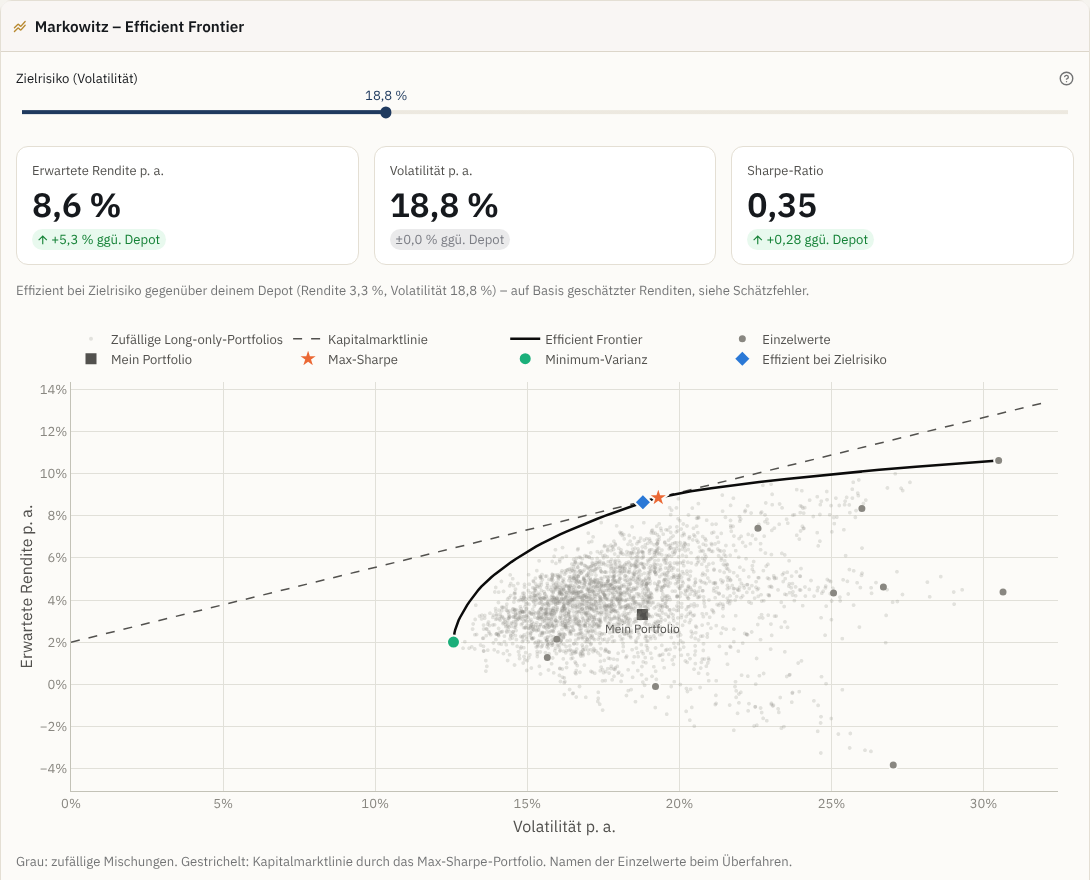
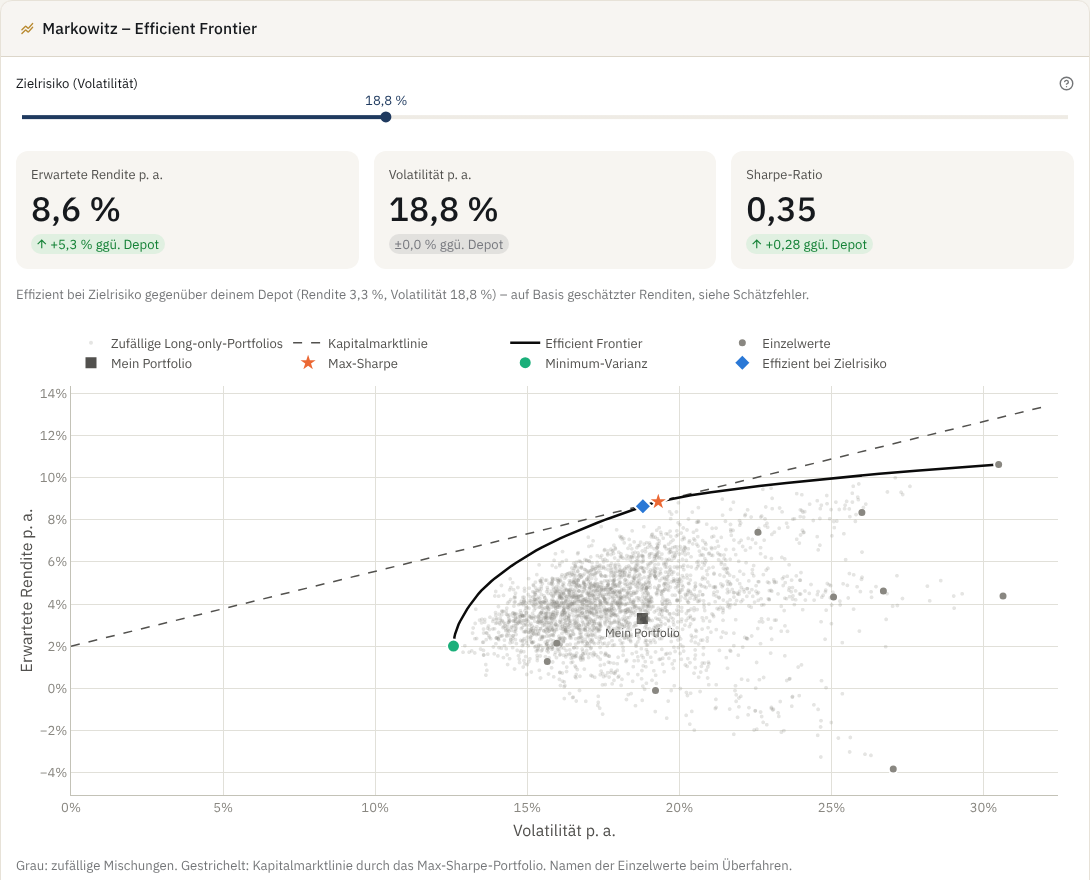
Design nach Referenz Mercury, Prüfung nach Web Interface Guidelines
Nach dem Ablauf aus CLAUDE.md:
- Referenz (awesome-design): Mercury – Prinzipien übernommen, eigene Werte
  behalten (warmes Papier statt kühlem Weiß, Navy statt Indigo): weiße
  Karten auf Papier ohne Schatten, Kennzahl-Kacheln einen Ton zurück, eine
  einzige Aktionsfarbe, übrige Knöpfe als ruhige Pillen, leichtere Schnitte
  (500) für Depotwert, Kennzahlen und Abschnittstitel, Radien 12/8 px.
- Prüfung (web-design-guidelines): Platzhalter und Ladehinweise mit „…“,
  Pfeile in der Depotwert-Zeile für Screenreader ausgeblendet,
  text-wrap: balance für Überschriften; Kontraste geprüft (Gewinn 6,8:1,
  Verlust 5,0:1 auf dem Hintergrund, zusätzlich Vorzeichen und Pfeil).
- Sichtprüfung 1280 px und 375 px: Depotwert-Zeile bricht auf Mobil nur
  zwischen den Angaben um; Erfassen-Formular schließt sich nach einem
  Wechsel der Marktdaten, wenn das Depot nicht leer ist.
- Diagrammfläche weiß; Palette dagegen erneut geprüft.

Claude-Session: https://claude.ai/code/session_017JKokTftp3VpJkY7ZCR3cU

diff --git a/ui/common.py b/ui/common.py
@@ -6,11 +6,14 @@ import streamlit as st
 
 from portfolio_optimizer import charts
 
-# Farbwelt: warmes Papier, Karten in fast Weiß, Navy als Akzent, Gold nur für Bildmarke und
-# Abschnittssymbole. Daten tragen die geprüfte Diagrammpalette (charts.py), Texte nie Datenfarben.
+# Farbwelt nach den Prinzipien der Referenz Mercury (.claude/skills/awesome-design): ruhige Fläche,
+# Karten heben sich über die Füllung ab statt über Schatten, eine einzige kräftige Aktionsfarbe,
+# leichte Schriftschnitte. Eigene Werte: warmes Papier statt kühlem Weiß, Navy statt Indigo.
+# Daten tragen die geprüfte Diagrammpalette (charts.py), Texte nie Datenfarben.
 TOKENS = {
-    "paper": "#f5f3ee", "card": "#fcfbf8", "line": "#e4dfd4", "ink": "#16191d", "ink2": "#52514e",
-    "muted": "#898781", "navy": "#1f3a5f", "gold": "#b8892f", "up": "#006300", "down": "#c4312f",
+    "paper": "#f5f3ee", "card": "#ffffff", "tile": "#f7f5f1", "line": "#e7e2d8", "pill": "#ebe7df",
+    "pill_hover": "#e1dcd2", "ink": "#16191d", "ink2": "#52514e", "muted": "#898781", "navy": "#1f3a5f",
+    "gold": "#b8892f", "up": "#006300", "down": "#c4312f",
 }
 
 
@@ -22,41 +25,52 @@ def theme() -> charts.Theme:
 def inject_style() -> None:
     t = TOKENS
     st.html(f"""<style>
-    :root {{ --po-card: {t["card"]}; --po-line: {t["line"]}; --po-ink: {t["ink"]}; --po-ink2: {t["ink2"]};
+    :root {{ --po-card: {t["card"]}; --po-tile: {t["tile"]}; --po-line: {t["line"]}; --po-pill: {t["pill"]};
+             --po-pill-hover: {t["pill_hover"]}; --po-ink: {t["ink"]}; --po-ink2: {t["ink2"]};
              --po-muted: {t["muted"]}; --po-navy: {t["navy"]}; --po-gold: {t["gold"]}; --po-up: {t["up"]};
              --po-down: {t["down"]}; }}
     header[data-testid="stHeader"] {{ background: rgba(245, 243, 238, 0.94); border-bottom: 1px solid var(--po-line); }}
     [data-testid="stTopNavLink"] p {{ font-weight: 500; }}
     [data-testid="stMainBlockContainer"] {{ padding-top: 4.4rem; padding-bottom: 4rem; max-width: 1240px; }}
 
-    /* Abschnitte als ruhige Karten */
+    /* Abschnitte: weiße Karten auf Papier, abgesetzt über die Füllung (Radius 12 px, kein Schatten) */
     [data-testid="stExpander"] details {{
-        background: var(--po-card); border: 1px solid var(--po-line); border-radius: 12px;
-        box-shadow: 0 1px 2px rgba(22, 25, 29, 0.04);
+        background: var(--po-card); border: 1px solid var(--po-line); border-radius: 12px; box-shadow: none;
     }}
-    [data-testid="stExpander"] summary {{ padding-top: 0.85rem; padding-bottom: 0.85rem; }}
-    [data-testid="stExpander"] summary p {{ font-weight: 600; font-size: 1.02rem; color: var(--po-ink); }}
+    [data-testid="stExpander"] summary {{ padding: 1rem 1.25rem; }}
+    [data-testid="stExpander"] summary p {{ font-weight: 500; font-size: 1.05rem; color: var(--po-ink);
+                                           letter-spacing: 0.005em; }}
     [data-testid="stExpander"] summary:hover p {{ color: var(--po-navy); }}
     [data-testid="stExpanderIcon"] {{ color: var(--po-gold); }}
 
-    /* Kennzahlen: Karte, ruhige Beschriftung, kräftige Zahl */
-    [data-testid="stMetric"] {{
-        background: #ffffff; border: 1px solid var(--po-line); border-radius: 12px; padding: 0.8rem 1rem 0.7rem;
-    }}
+    /* Kennzahlen: einen Ton hinter der Karte, ohne Rahmen; große Zahl in leichtem Schnitt */
+    [data-testid="stMetric"] {{ background: var(--po-tile); border-radius: 12px; padding: 0.85rem 1rem 0.75rem; }}
     [data-testid="stMetricLabel"] p {{ color: var(--po-ink2); font-size: 0.86rem; }}
-    [data-testid="stMetricValue"] > div {{ font-weight: 600; letter-spacing: -0.01em; }}
+    [data-testid="stMetricValue"] > div {{ font-weight: 500; }}
+
+    /* Knöpfe als ruhige Pillen, die Aktionsfarbe nur für den Hauptknopf */
+    button[data-testid^="stBaseButton-secondary"], button[data-testid^="stBaseButton-primary"],
+    [data-testid="stPopoverButton"] {{ border-radius: 999px; padding-left: 1rem; padding-right: 1rem; }}
+    button[data-testid^="stBaseButton-secondary"], [data-testid="stPopoverButton"] {{
+        background: var(--po-pill); border-color: transparent;
+    }}
+    button[data-testid^="stBaseButton-secondary"]:hover, [data-testid="stPopoverButton"]:hover {{
+        background: var(--po-pill-hover); border-color: transparent;
+    }}
 
     /* Depotwert oben auf der Portfolio-Seite */
     .po-hero {{ margin: 0.2rem 0 0.4rem; }}
     .po-hero .po-label {{ color: var(--po-ink2); font-size: 0.92rem; }}
-    .po-hero .po-value {{ color: var(--po-ink); font-size: 3.2rem; font-weight: 600; line-height: 1.12;
-                         letter-spacing: -0.02em; }}
+    .po-hero .po-value {{ color: var(--po-ink); font-size: 3.4rem; font-weight: 500; line-height: 1.1;
+                         letter-spacing: 0.005em; }}
     .po-hero .po-sub {{ color: var(--po-ink2); font-size: 0.95rem; margin-top: 0.3rem; }}
-    .po-hero .po-sub span + span::before {{ content: "·"; color: var(--po-muted); margin: 0 0.55rem; }}
+    .po-hero .po-sub > span {{ display: inline-block; white-space: nowrap; }}  /* bricht nur zwischen Angaben um */
+    .po-hero .po-sub > span + span::before {{ content: "·"; color: var(--po-muted); margin: 0 0.55rem; }}
     .po-up {{ color: var(--po-up); font-weight: 600; }}
     .po-down {{ color: var(--po-down); font-weight: 600; }}
 
-    h1, h2, h3, h4 {{ color: var(--po-ink); letter-spacing: -0.01em; }}
+    h1, h2, h3, h4 {{ color: var(--po-ink); text-wrap: balance; }}
+    @media (max-width: 640px) {{ .po-hero .po-value {{ font-size: 2.6rem; }} }}
     </style>""")
 
 

diff --git a/ui/portfolio_view.py b/ui/portfolio_view.py
@@ -75,7 +75,8 @@ def _hero(ctx: PortfolioContext) -> None:
         cost, now = float(val.loc[known, "cost"].sum()), float(val.loc[known, "value"].sum())
         diff = now - cost
         tone = "po-up" if diff > 0 else "po-down" if diff < 0 else ""
-        arrow = "▲ " if diff > 0 else "▼ " if diff < 0 else ""
+        arrow = ('<span aria-hidden="true">▲ </span>' if diff > 0 else
+                 '<span aria-hidden="true">▼ </span>' if diff < 0 else "")
         parts.append(f'<span><span class="{tone}">{arrow}{_signed_eur(diff)} ({pct(now / cost - 1, signed=True)})'
                      "</span> unrealisiert</span>")
     realized = ctx.portfolio.realized_gains()
@@ -141,8 +142,8 @@ def _pick_security(ctx: PortfolioContext):
         symbol = st.selectbox("Wertpapier aus dem Depot", list(securities),
                               format_func=lambda s: _label(securities[s]), key="tx_symbol")
         return symbol, securities[symbol]
-    placeholder = ("z. B. Nordlicht, Technologie, ETF" if ctx.provider == "demo"
-                   else "Name, Ticker oder ISIN – z. B. Apple, SAP.DE oder IE00B4L5Y983")
+    placeholder = ("z. B. Nordlicht, Technologie, ETF…" if ctx.provider == "demo"
+                   else "Name, Ticker oder ISIN – z. B. Apple, SAP.DE oder IE00B4L5Y983…")
     query = st.text_input("Wertpapier suchen", key="tx_query", placeholder=placeholder).strip()
     if not query:
         return None

diff --git a/ui/state.py b/ui/state.py
@@ -106,7 +106,7 @@ class _Incomplete(Exception):
         self.result = result
 
 
-@st.cache_data(ttl=3600, show_spinner="Lade Kurse …", max_entries=300)
+@st.cache_data(ttl=3600, show_spinner="Lade Kurse…", max_entries=300)
 def _history_cached(provider: str, symbols: tuple[str, ...], currencies: tuple[str, ...], start: date,
                     end: date) -> HistoryEUR:
     result = _load_history(provider, symbols, currencies, start, end)
@@ -239,7 +239,7 @@ def current_portfolio(provider: str) -> Portfolio:
 # Eingaben, deren Voreinstellung vom Depot abhängt (Zielrisiko = Risiko des Depots, Anfangskapital =
 # Depotwert, auffälligstes Asset): beim Wechsel des Portfolios neu bestimmen
 PORTFOLIO_INPUTS = ("frontier_target", "frontier_target_widget", "mc_initial", "sens_asset", "tx_marked",
-                    "tx_undo")
+                    "tx_undo", "sec_add")  # sec_add: Erfassen offen nur bei leerem Depot
 
 
 def reset_portfolio_inputs() -> None:

diff --git a/ui/analysis_view.py b/ui/analysis_view.py
@@ -212,7 +212,7 @@ def frontier(run: RunState) -> None:
 # ---------------------------------------------------------------------------
 
 
-@st.cache_data(show_spinner="Simuliere Pfade …", max_entries=20)
+@st.cache_data(show_spinner="Simuliere Pfade…", max_entries=20)
 def run_simulation(method, weights, mu, cov, returns, years, n_paths, initial, contribution, seed):
     if method == "gbm":
         return mc.simulate_gbm(weights, mu, cov, years, n_paths, initial, contribution, seed=seed)

diff --git a/portfolio_optimizer/charts.py b/portfolio_optimizer/charts.py
@@ -38,7 +38,7 @@ class Theme:
 LIGHT = Theme(
     dark=False,
     series=("#2a78d6", "#eb6834", "#1baf7a", "#eda100", "#e87ba4", "#008300", "#6250d6", "#e34948"),
-    surface="#fcfbf8",  # Kartenfarbe der App; Palette dagegen geprüft
+    surface="#ffffff",  # Kartenfarbe der App; Palette dagegen geprüft
     ink="#0b0b0b",
     ink2="#52514e",
     muted="#898781",
